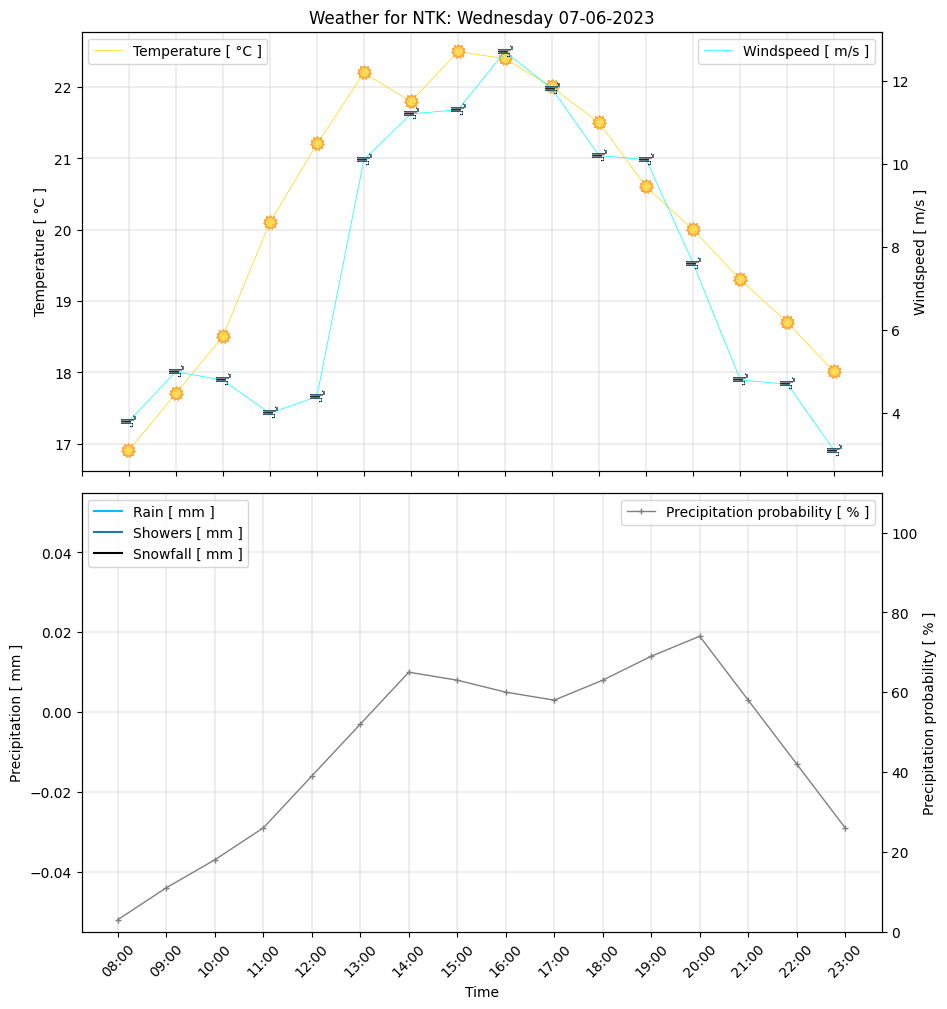
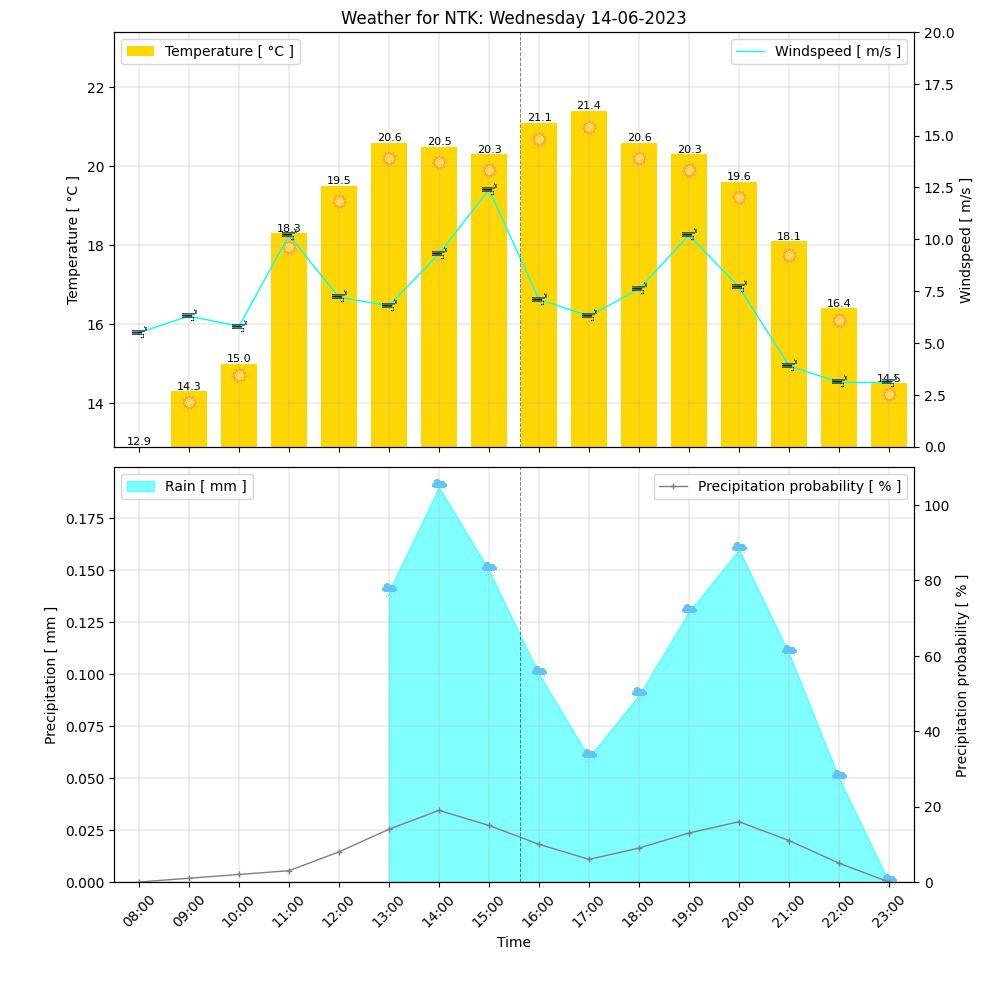
update plots for predictions NTK visits

diff --git a/apps/predictModels.py b/apps/predictModels.py
@@ -17,11 +17,12 @@ class PredictModels:
         data = await self.remove_zero_values(data)  
         datetime_objects = [datetime.strptime(row.split(' - ')[0], "%Y-%m-%d %H:%M") for row in data]
 
+        X_day_of_year = [dt.timetuple().tm_yday for dt in datetime_objects]
         X_day_of_week = [dt.weekday() for dt in datetime_objects]
         X_total_minutes = [(dt.hour * 60 + dt.minute) for dt in datetime_objects]
         X_month = [dt.month for dt in datetime_objects]
 
-        X = np.column_stack((X_day_of_week, X_total_minutes, X_month))
+        X = np.column_stack((X_day_of_year, X_day_of_week, X_total_minutes, X_month))
         Y = np.array([int(row.split(" - ")[1]) for row in data])
 
         X_train, X_test, Y_train, Y_test = train_test_split(X, Y, test_size=0.1, random_state=42)
@@ -36,7 +37,7 @@ class PredictModels:
         return model, mse
 
 
-    async def remove_zero_values(self, data: List[str]):
+    async def remove_zero_values(self, data: List[str]) -> List[str]:
         values = [int(row.split(' - ')[1].strip()) for row in data]
         indexes = []
         for i, value in enumerate(values):
@@ -47,7 +48,7 @@ class PredictModels:
         return data
 
 
-    async def learn_models(self):
+    async def learn_models(self) -> None:
         data = []
         with open('ntk_data.txt', 'r') as file:
             for row in file:
@@ -57,14 +58,15 @@ class PredictModels:
         await self.perform_regression(data, GradientBoostingRegressor)
 
    
-    async def predict(self, model, new_data):
+    async def predict(self, model, new_data) -> List[int]:
         datetime_objects = [datetime.strptime(row.split(' - ')[0], "%Y-%m-%d %H:%M") for row in new_data]
 
+        X_day_of_year = [dt.timetuple().tm_yday for dt in datetime_objects]
         X_day_of_week = [dt.weekday() for dt in datetime_objects]
         X_total_minutes = [(dt.hour * 60 + dt.minute) for dt in datetime_objects]
         X_month = [dt.month for dt in datetime_objects]
 
-        X = np.column_stack((X_day_of_week, X_total_minutes, X_month))
+        X = np.column_stack((X_day_of_year, X_day_of_week, X_total_minutes, X_month))
 
         y_pred = model.predict(X)
 

diff --git a/apps/plot_functions.py b/apps/plot_functions.py
@@ -1,8 +1,5 @@
-import io
 from typing import Optional, List, Tuple
 from datetime import datetime, timedelta
-
-from aiogram import Bot, types
 
 import joblib
 import numpy as np
@@ -58,7 +55,17 @@ class PlotGraphs():
         ax.set_title(f"NTK: {start_datetime.strftime('%A')} {start_datetime.strftime('%d-%m-%Y')}")
         ax.grid(True, linewidth=0.3, which='both', axis='both')
 
-        
+        # Add annotation for max value
+        if y_quantities:
+            y_max = max(y_quantities)
+            x_max = x_times[y_quantities.index(y_max)]
+            ax.annotate(
+                f"Max: {max(y_quantities)}",
+                xy=(x_max, y_max),
+                xytext=(x_max, y_max*0.9),
+                bbox=dict(boxstyle="round", fc="w", ec="0.5", alpha=0.9),
+                arrowprops=dict(arrowstyle="->", connectionstyle="arc3,rad=0.2", color='grey'),
+            )
     
         ax.set_xlim([start_datetime-timedelta(minutes=30), end_datetime+timedelta(minutes=30)]) # type: ignore
         plt.xticks(rotation=45)
@@ -68,6 +75,7 @@ class PlotGraphs():
 
     async def add_daily_prediction(self, fig: Figure, ax: Axes, start_datetime: datetime, end_datetime: datetime, model_name: Optional[str] = None) -> Tuple[Figure, Axes, datetime, datetime]:
         datetime_objects =  await generaet_datetime_list(start_datetime, end_datetime, delta_minutes=10)
+        x_day_of_year = [dt.timetuple().tm_yday for dt in datetime_objects]
         x_day_of_week = [dt.weekday() for dt in datetime_objects]
         x_total_minutes = [(dt.hour * 60 + dt.minute) for dt in datetime_objects]
         x_month = [dt.month for dt in datetime_objects]
@@ -86,7 +94,7 @@ class PlotGraphs():
                 model = joblib.load('model_GradientBoostingRegressor().pkl')
                 color = 'red'
 
-        x = np.column_stack((x_day_of_week, x_total_minutes, x_month))
+        x = np.column_stack((x_day_of_year, x_day_of_week, x_total_minutes, x_month))
         y = list(map(int, model.predict(x)))
         ax = fig.axes[0]
 

diff --git a/README.md b/README.md
@@ -28,11 +28,11 @@ Telegram bot in @chat_ntk chat for students who regularly visit the National Tec
 ## How prediction works:
 The data of visits to the People's Technical Library is permanently stored. This data was processed and fed to models for training according to this principle:
 
-| X1 | X2 | X3 | Y |
-|:---:|:---:|:---:|:---:|
-| time | day of the week | month | number of people |
+| X1 | X2 | X3 | X4 | Y |
+|:---:|:---:|:---:|:---:| :---:|
+| day of the year | day of the week | time | month | number of people |
 
-`f(X1, X2, X3) = Y -> f(time, day of the week, month) = number of people`
+`f(X1, X2, X3, X4) = Y -> f(day of the year, day of the week, time, month) = number of people`
 
 Two models are used:
 - Random Forest Regressor
